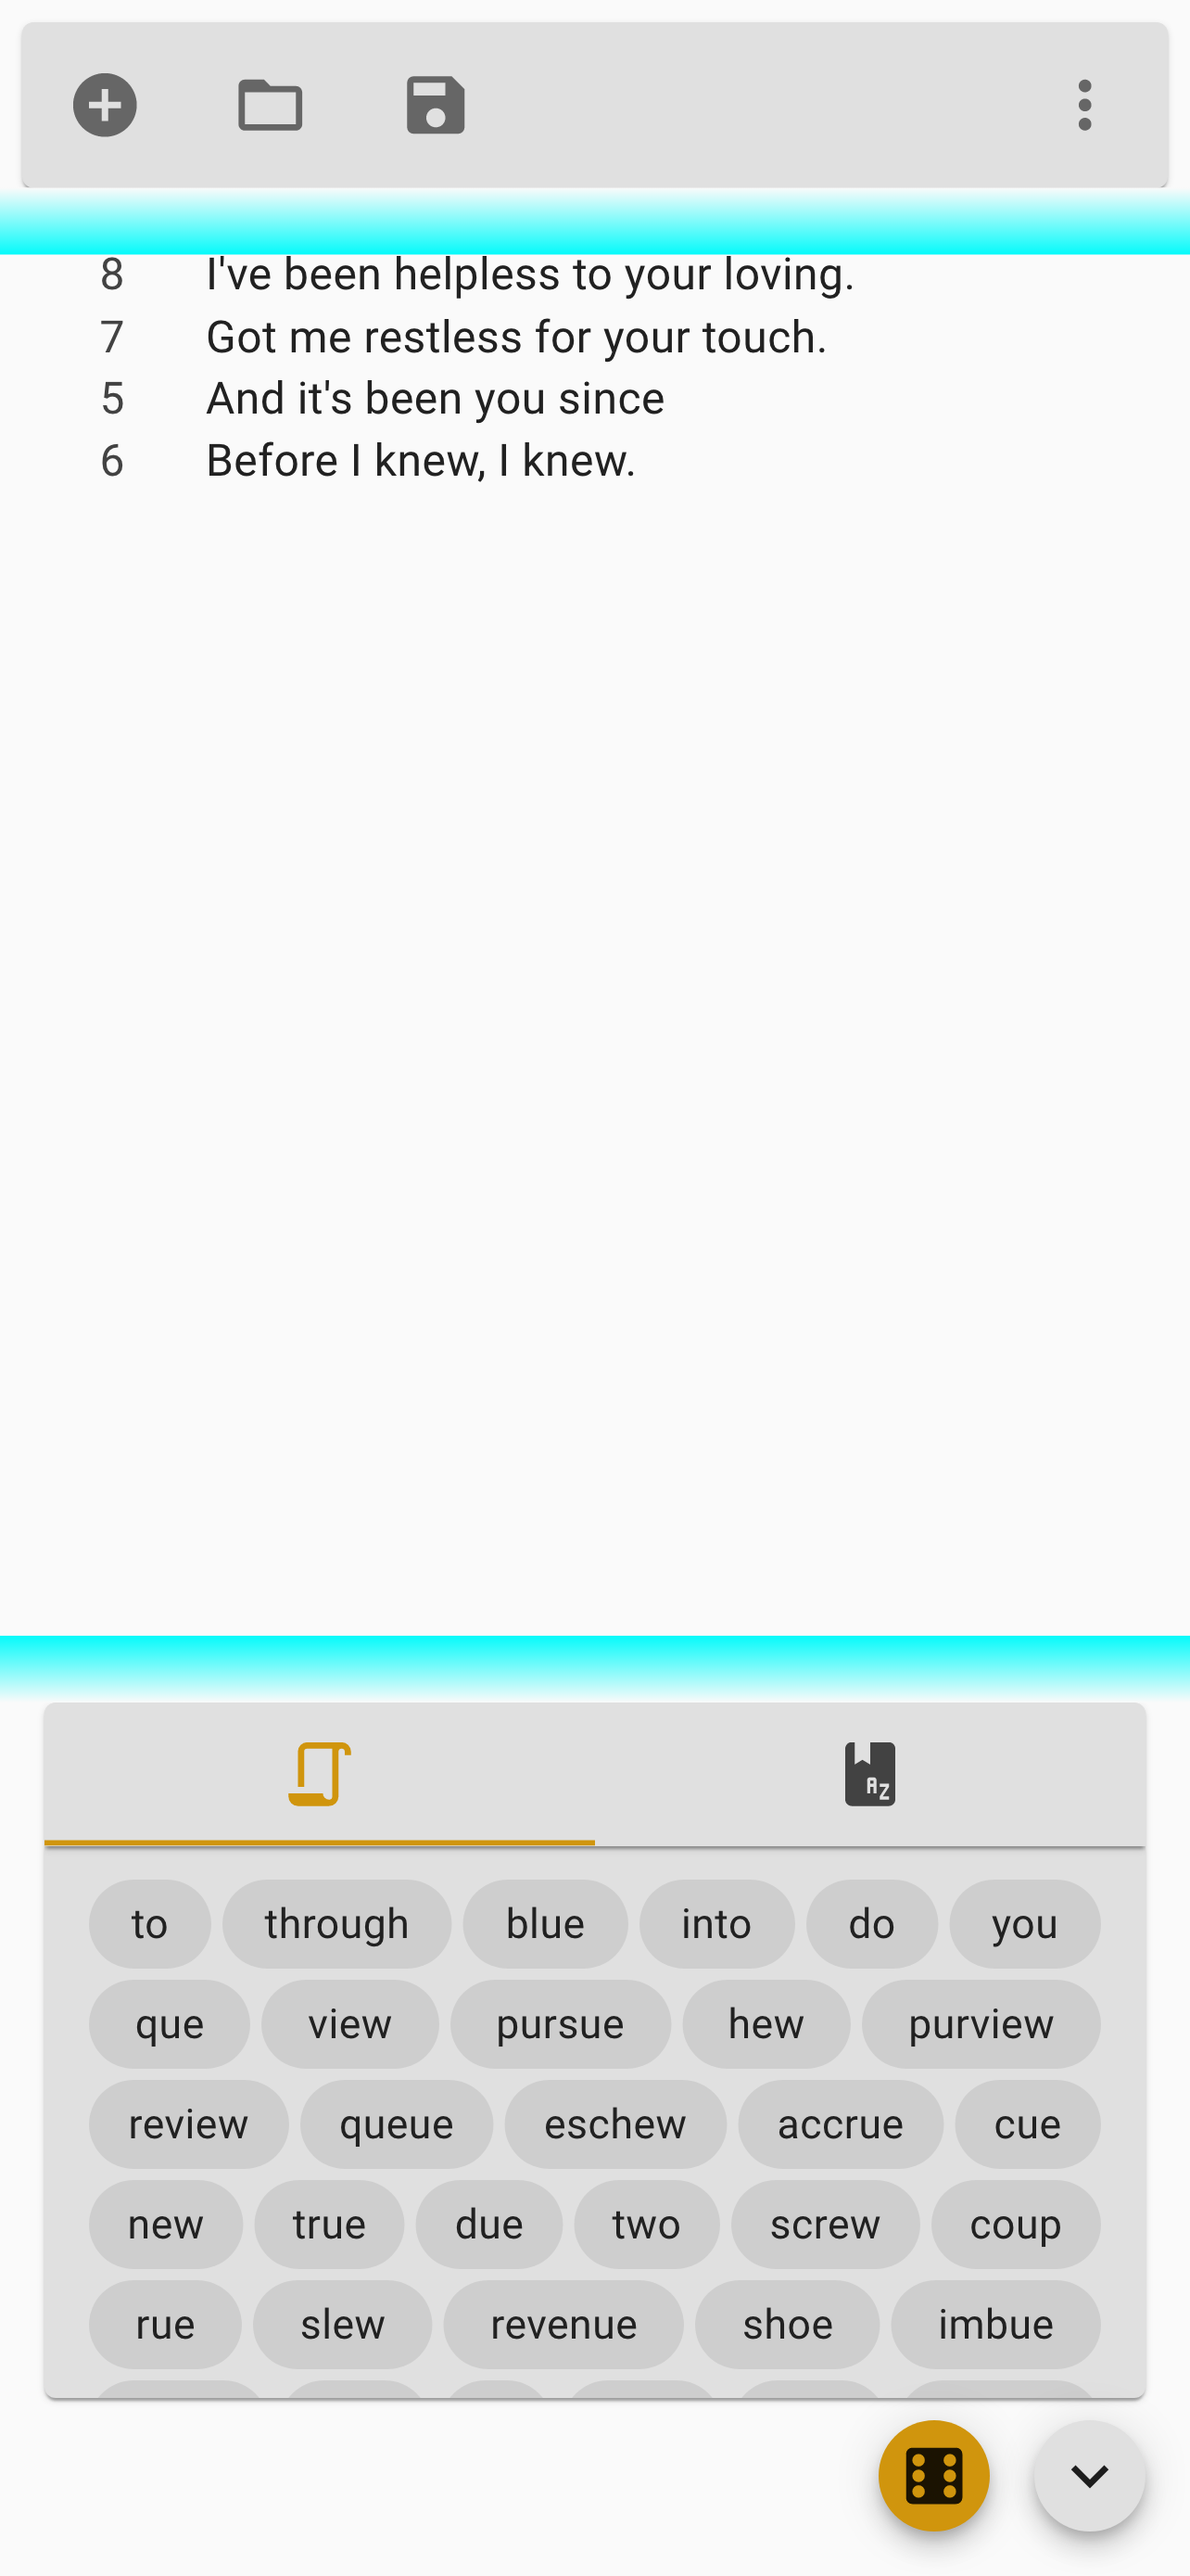
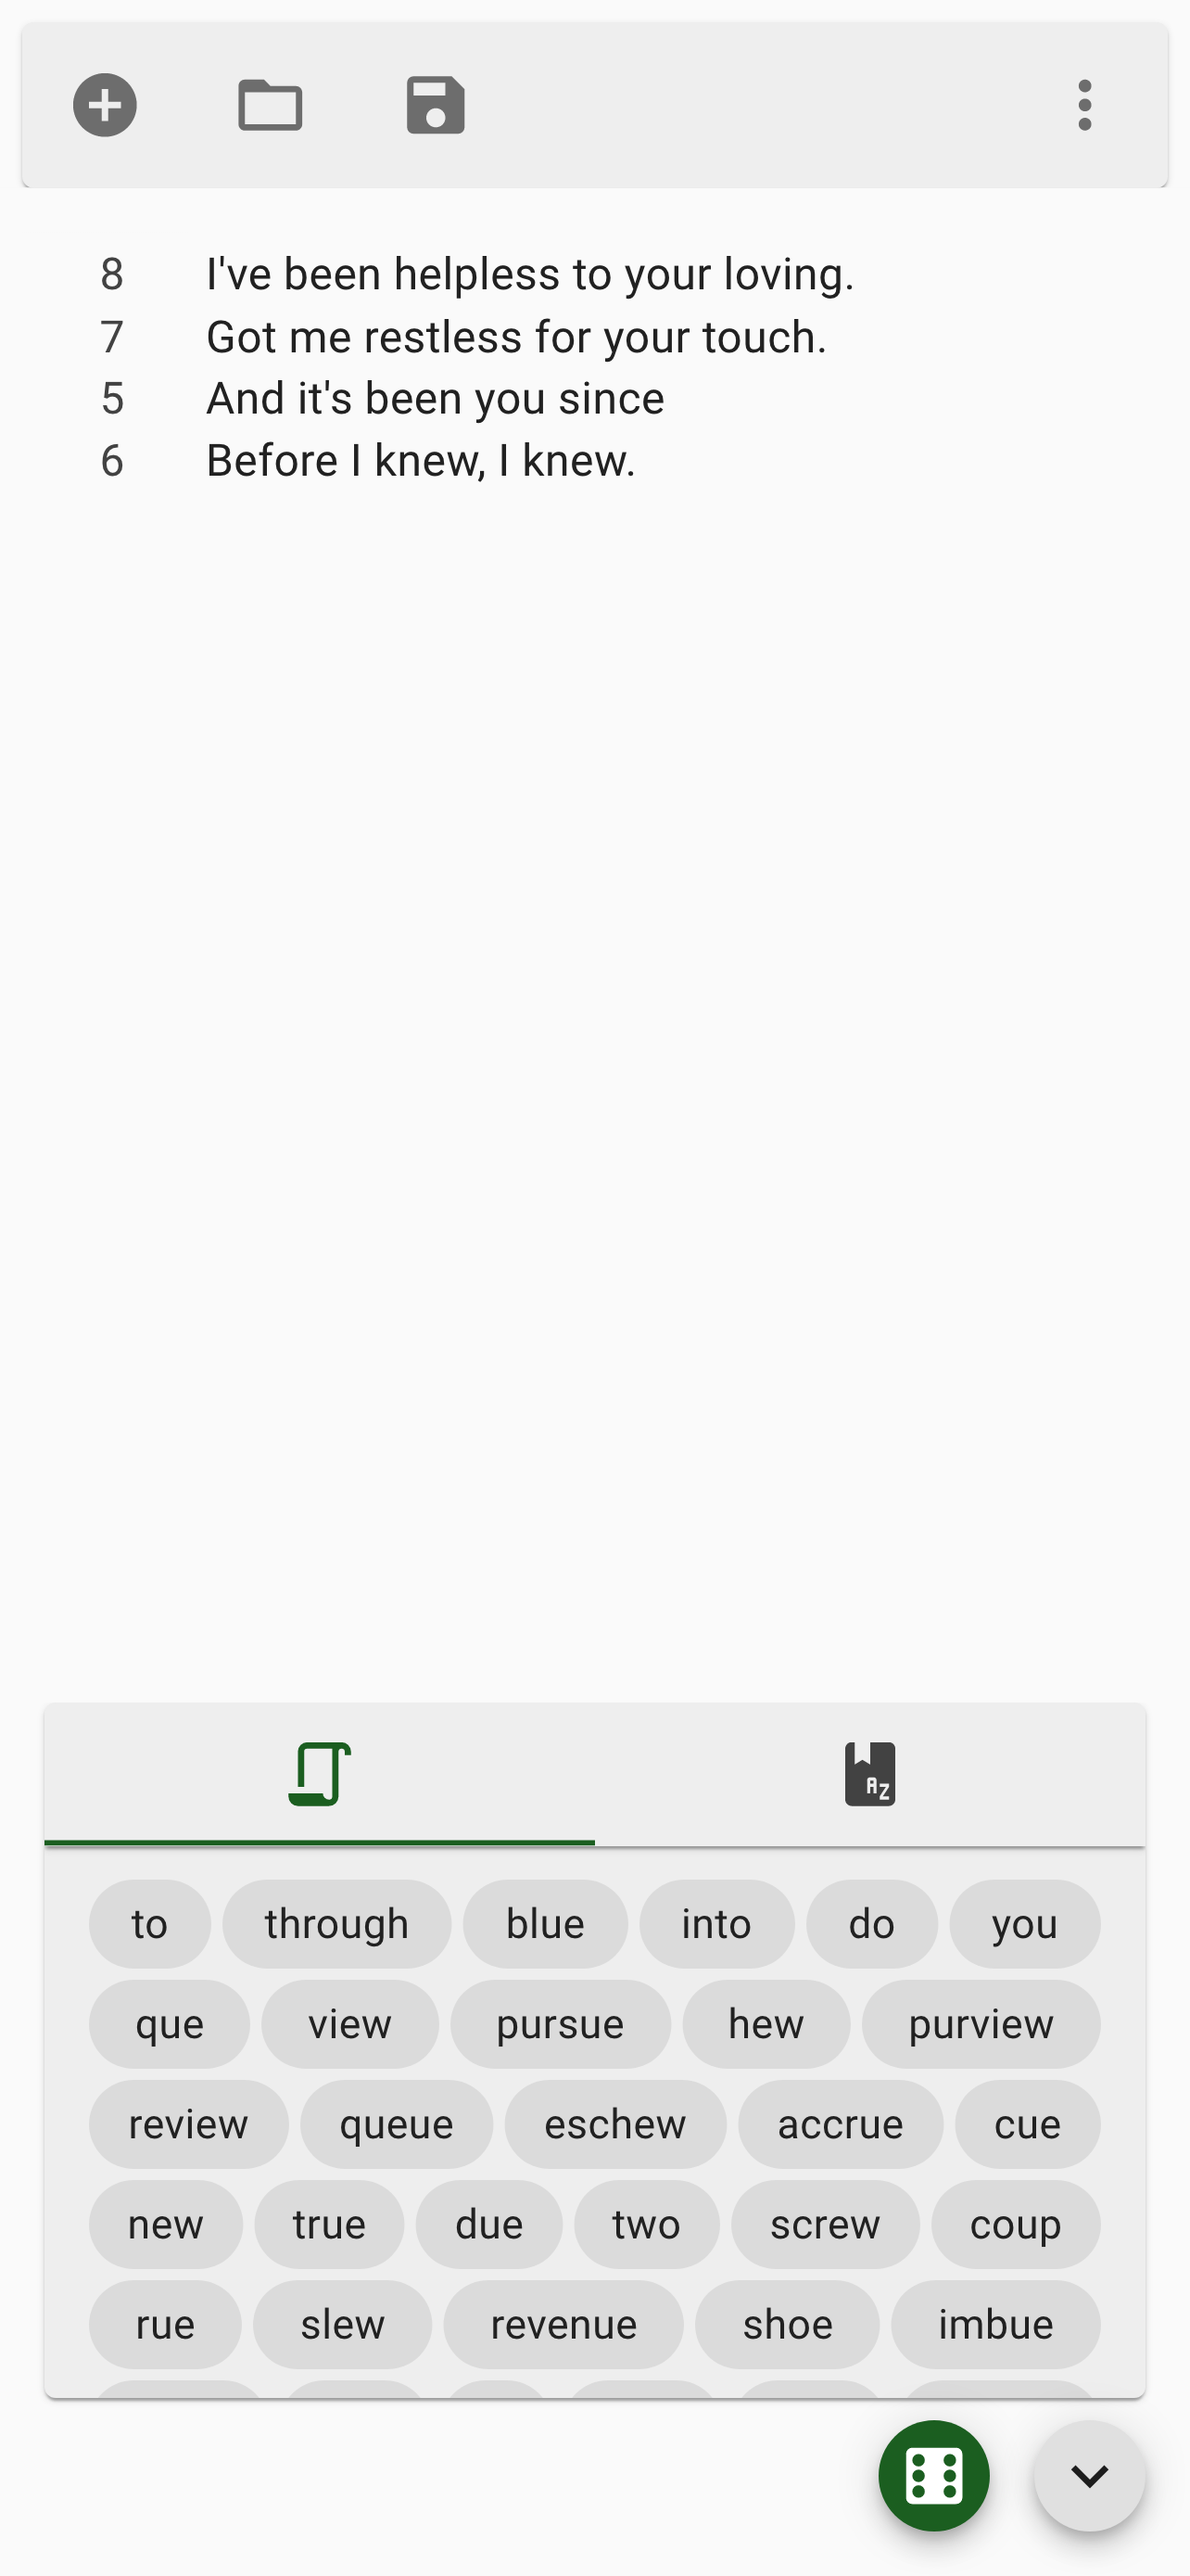
3.1.3

Changed region(s): [[0.0, 0.6192, 1.0, 0.712], [0.0, 0.0619, 1.0, 0.1238], [0.7165, 0.9287, 0.8411, 0.9906]]

diff --git a/CHANGELOG.md b/CHANGELOG.md
@@ -1,3 +1,17 @@
+## [3.1.3](https://github.com/wardellbagby/lyricistant/compare/v3.1.2...v3.1.3) (2023-07-04)
+
+
+### Bug Fixes
+
+* remove blue bars above and below editor in light mode ([607fc84](https://github.com/wardellbagby/lyricistant/commit/607fc844d38d31dc28eb0ef9f4e4090c31623cf1))
+
+
+### Features
+
+* improve contrast for light theme ([6731c22](https://github.com/wardellbagby/lyricistant/commit/6731c224d1851c2d4bdc63dba797ed20770136a1))
+
+
+
 ## [3.1.2](https://github.com/wardellbagby/lyricistant/compare/v3.1.1...v3.1.2) (2023-07-04)
 
 
